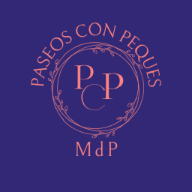
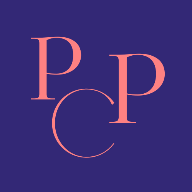
chore: update PWA images and assets

Changed region(s): [[0.1562, 0.0938, 0.875, 0.8438], [0.3125, 0.75, 0.3438, 0.7812]]

diff --git a/vite.config.js b/vite.config.js
@@ -37,8 +37,8 @@ export default defineConfig({
         name: 'Paseos con Peques',
         short_name: 'PcP',
         description: 'Mapa y eventos para familias con peques',
-        theme_color: '#ffffff',
-        background_color: '#ffffff',
+        theme_color: '#332876',
+        background_color: '#332876',
         display: 'standalone',
         start_url: '/',
         icons: [
